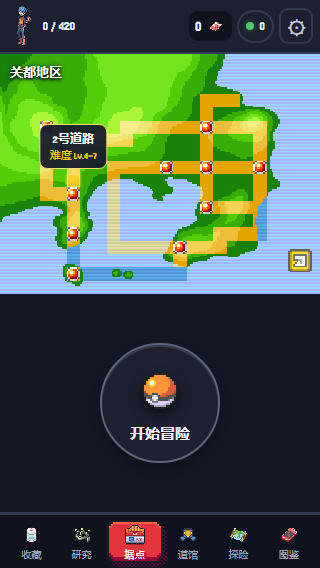
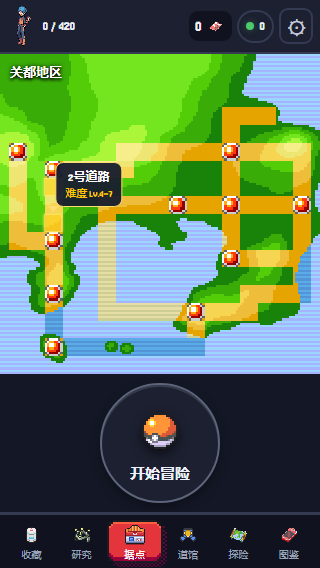
style(poke): enlarge region map by cropping inactive margins

diff --git a/outputs/laozu-web/poke/app.js b/outputs/laozu-web/poke/app.js
@@ -44,10 +44,11 @@
     const route=POKE_ROUTES.variants.find(v=>v.id===M.s.selectedRoute),chosen=!!route||!!M.s.run;
     const active=route?POKE_ROUTES.regions.filter(g=>route.regions.includes(g.id)):[];
     const anchor=active[0]?.cells[Math.floor(active[0].cells.length/2)];
-    const ax=anchor?12+anchor[0]*8:0,ay=anchor?20+anchor[1]*8:0;
-    const bx=Math.max(40,Math.min(152,ax)),below=ay<45;
+    const cropLeft=20,mapWidth=144;
+    const ax=anchor?12+anchor[0]*8-cropLeft:0,ay=anchor?20+anchor[1]*8:0;
+    const bx=Math.max(40,Math.min(mapWidth-40,ax)),below=ay<45;
     const variants=active.length?[...new Set(active.flatMap(g=>g.variants))].map(id=>POKE_ROUTES.variants.find(v=>v.id===id)):[];
-    return `<main class="home-page region-home"><section class="region-panel" aria-label="关都地区"><div class="region-map"><img class="region-art" src="poke/maps/kanto.png" alt="关都地区地图" draggable="false"><strong class="region-name">关都地区</strong><div class="route-zones">${POKE_ROUTES.regions.map(g=>g.cells.map(([x,y],i)=>`<button class="route-cell ${route?.regions.includes(g.id)?'chosen':''}" data-action="route:${g.id}" data-region="${g.id}" aria-label="选择${g.name}" aria-pressed="${route?.regions.includes(g.id)||false}" ${i?'tabindex="-1"':''} style="left:${(8+x*8)/192*100}%;top:${(16+y*8)/144*100}%;width:${8/192*100}%;height:${8/144*100}%"></button>`).join('')).join('')}</div>${route?`<div class="route-bubble ${below?'below':''}" style="left:${bx/192*100}%;top:${(below?ay+7:ay-7)/144*100}%;--arrow:${(ax-bx)/192*100}cqw"><strong>${esc(route.name)}</strong><span>难度 Lv.${route.levels.join('–')}</span>${variants.length>1?`<div class="route-levels">${variants.map(v=>`<button data-action="difficulty:${v.id}" aria-label="选择等级${v.levels.join('至')}" aria-pressed="${v.id===route.id}">${v.levels.join('–')}</button>`).join('')}</div>`:''}</div>`:''}</div></section><section class="adventure-launch"><button class="pokeball-start" data-action="start-adventure" ${chosen?'':'disabled'} aria-label="${M.s.run?'继续冒险':'开始冒险'}"><img src="poke/items/poke-ball.png" alt="" draggable="false"><span>${M.s.run?'继续冒险':'开始冒险'}</span></button></section></main>`;
+    return `<main class="home-page region-home"><section class="region-panel" aria-label="关都地区"><div class="region-map"><img class="region-art" src="poke/maps/kanto.png" alt="关都地区地图" draggable="false"><strong class="region-name">关都地区</strong><div class="route-zones">${POKE_ROUTES.regions.map(g=>g.cells.map(([x,y],i)=>`<button class="route-cell ${route?.regions.includes(g.id)?'chosen':''}" data-action="route:${g.id}" data-region="${g.id}" aria-label="选择${g.name}" aria-pressed="${route?.regions.includes(g.id)||false}" ${i?'tabindex="-1"':''} style="left:${(8+x*8-cropLeft)/mapWidth*100}%;top:${(16+y*8)/144*100}%;width:${8/mapWidth*100}%;height:${8/144*100}%"></button>`).join('')).join('')}</div>${route?`<div class="route-bubble ${below?'below':''}" style="left:${bx/mapWidth*100}%;top:${(below?ay+7:ay-7)/144*100}%;--arrow:${(ax-bx)/mapWidth*100}cqw"><strong>${esc(route.name)}</strong><span>难度 Lv.${route.levels.join('–')}</span>${variants.length>1?`<div class="route-levels">${variants.map(v=>`<button data-action="difficulty:${v.id}" aria-label="选择等级${v.levels.join('至')}" aria-pressed="${v.id===route.id}">${v.levels.join('–')}</button>`).join('')}</div>`:''}</div>`:''}</div></section><section class="adventure-launch"><button class="pokeball-start" data-action="start-adventure" ${chosen?'':'disabled'} aria-label="${M.s.run?'继续冒险':'开始冒险'}"><img src="poke/items/poke-ball.png" alt="" draggable="false"><span>${M.s.run?'继续冒险':'开始冒险'}</span></button></section></main>`;
   }
 
   function drawScreen(){const r=M.s.run;return `<main class="draw-page"><div class="draw-stars"></div><small>POKÉMON EXPEDITION</small><h1>${r?.phase==='draw'?'正在结识伙伴':'探险邀请'}</h1><p>每次探险，一位全新的宝可梦。</p><img class="summon-image ${r?'rolling':''}" src="poke/items/poke-ball.png" alt="精灵球">${r?`<p role="status">图鉴正在记录新的伙伴……</p>`:`<div class="draw-offer"><b>初始伙伴</b><div>${[1,4,7].map(id=>img(id)).join('')}</div><p>妙蛙种子 / 小火龙 / 杰尼龟 · 等概率</p></div>${btn('draw',M.s.firstFree?'免费抽取第一位伙伴':`消耗 ${M.drawCost()} 抽取点`,'gold primary',M.s.points<M.drawCost())}${!M.s.firstFree&&M.s.points<M.drawCost()?btn('rescue','领取救援补给 · 补足至3点','soft'):''}<small>抽取后直接开始本局，不消耗精灵球。</small>`}${btn('home','返回据点','text-button')}</main>`;}

diff --git a/outputs/laozu-web/poke/battle-ui.css b/outputs/laozu-web/poke/battle-ui.css
@@ -237,3 +237,7 @@
 .route-levels button{border:1px solid var(--line);border-radius:4px;background:var(--panel);color:white;font-size:11px;padding:3px 6px}
 .route-levels button[aria-pressed=true]{border-color:var(--yellow);color:var(--yellow)}
 .map-heading>span{max-width:78px;overflow:hidden;text-overflow:ellipsis}
+
+/* Crop non-interactive side margins; preserve all route cells at equal scale. */
+.region-map{aspect-ratio:1}
+.region-art{position:absolute;top:0;left:-13.888889%;width:133.333333%;max-width:none;height:100%;object-fit:fill}

diff --git a/outputs/laozu-web/index.html b/outputs/laozu-web/index.html
@@ -14,7 +14,7 @@
 <script defer src="poke/routes.js"></script>
 <script defer src="poke/model.js"></script>
 <script defer src="poke/app.js"></script>
-<link rel="stylesheet" href="poke/battle-ui.css?v=15">
+<link rel="stylesheet" href="poke/battle-ui.css?v=16">
 </head>
 <body class="px" data-theme="dark">
 <div id="app" aria-label="宝可梦行囊探险"><main><h1>宝可梦 · 行囊探险</h1><p>正在载入伙伴资料……</p></main></div>

diff --git a/tools/rea-pipeline/poke-fusion/routes/ROUTES.md b/tools/rea-pipeline/poke-fusion/routes/ROUTES.md
@@ -43,3 +43,6 @@
 ## 验证
 
 test-poke-routes.cjs：23配置×3初始伙伴，共69局自动放置奖励后自然模拟至结算并再次抽取；另核对每个道路单元不属于城市且不重复。test-poke-route-ui.cjs：全部26地区选择、后期难度切换、城市点击、三屏宽、62级海路真实出发。人工截图只覆盖保存的样例，不代表69局均人工游玩。
+
+## 地图放大视窗
+原图192×144保持不变，首页显示源坐标x=20..164的144×144窗口，去掉左右非交互边缘，等比放大33.3%。点击与气泡x统一减20再除144，全部道路单元范围x=24..160均保留。320/390/450截图复核，35项路线UI和13项首页回归通过。
